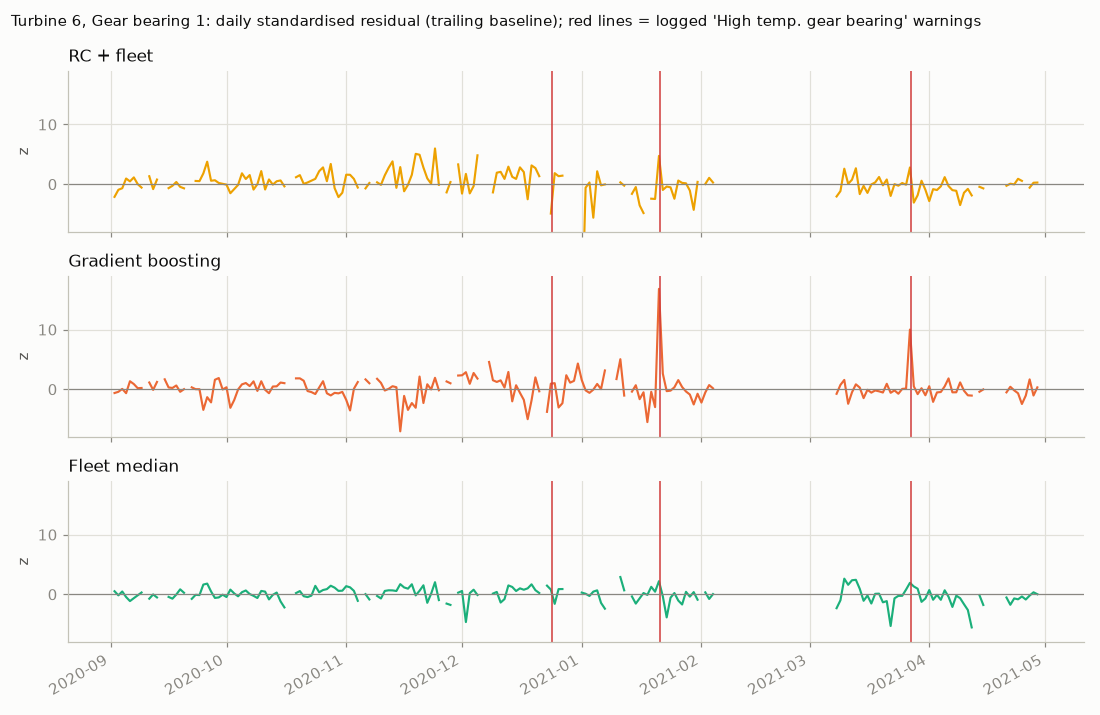
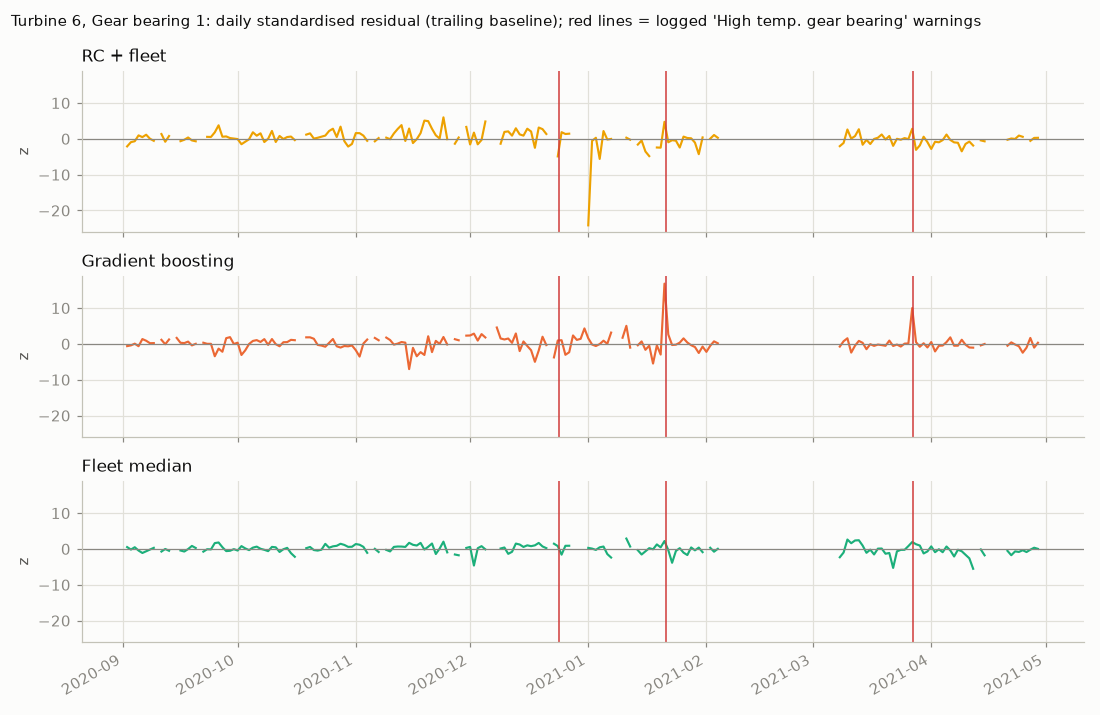
Event figure: y axis down to the deepest daily residual
One RC + fleet day (-24) fell below the fixed lower limit of -8; the shared axis now reaches the deepest value. Layout only.

diff --git a/src/wind_thermal_nbm/report.py b/src/wind_thermal_nbm/report.py
@@ -172,9 +172,11 @@ def fig_event(z: pd.DataFrame, alarms: pd.DataFrame, events: pd.DataFrame, out: 
             if zz.index[0] <= e.start <= zz.index[-1]:
                 ax.axvline(e.start, color="#d03b3b", lw=1)
         ax.axhline(0, color=MUTED, lw=0.8)
-        ax.set_ylim(-8, 19)
         ax.set_ylabel("z")
         ax.set_title(f"{METHOD_LABELS[m]}", loc="left")
+    # shared y axis down to the deepest dip (one RC + fleet day fell below -8)
+    lo = float(np.nanmin(zz[[f"{m}|{component}|{turbine}" for m in ("rc_fleet", "gbm", "fleet")]].to_numpy()))
+    axes[0].set_ylim(min(-8.0, np.floor(lo) - 1), 19)
     fig.suptitle(f"Turbine {turbine}, {COMPONENT_LABELS[component]}: daily standardised residual (trailing "
                  "baseline); red lines = logged 'High temp. gear bearing' warnings", x=0.01, ha="left", fontsize=10,
                  color=INK)
